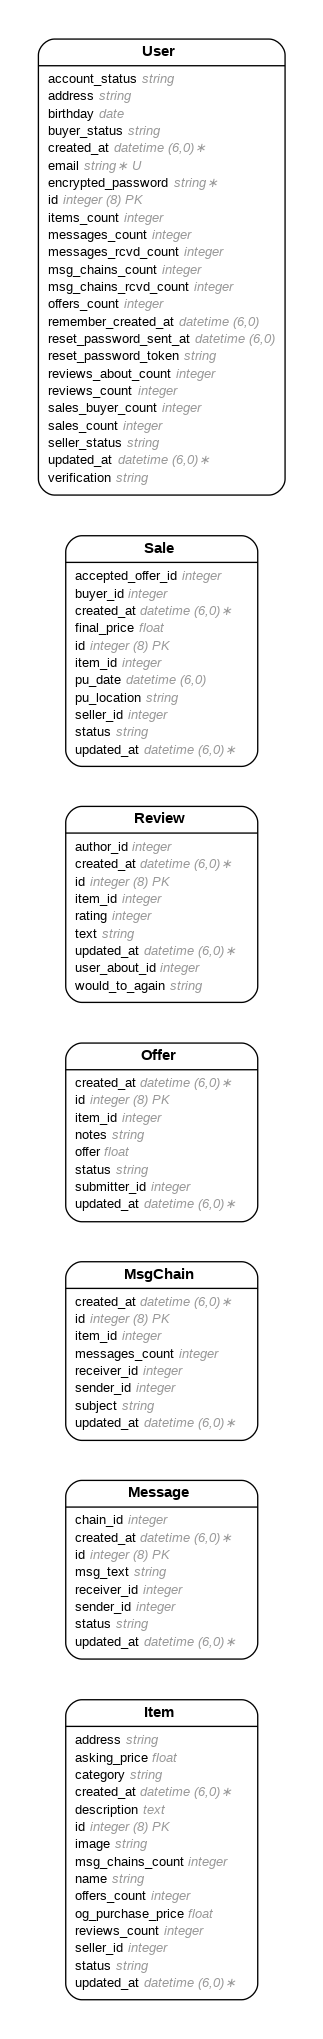
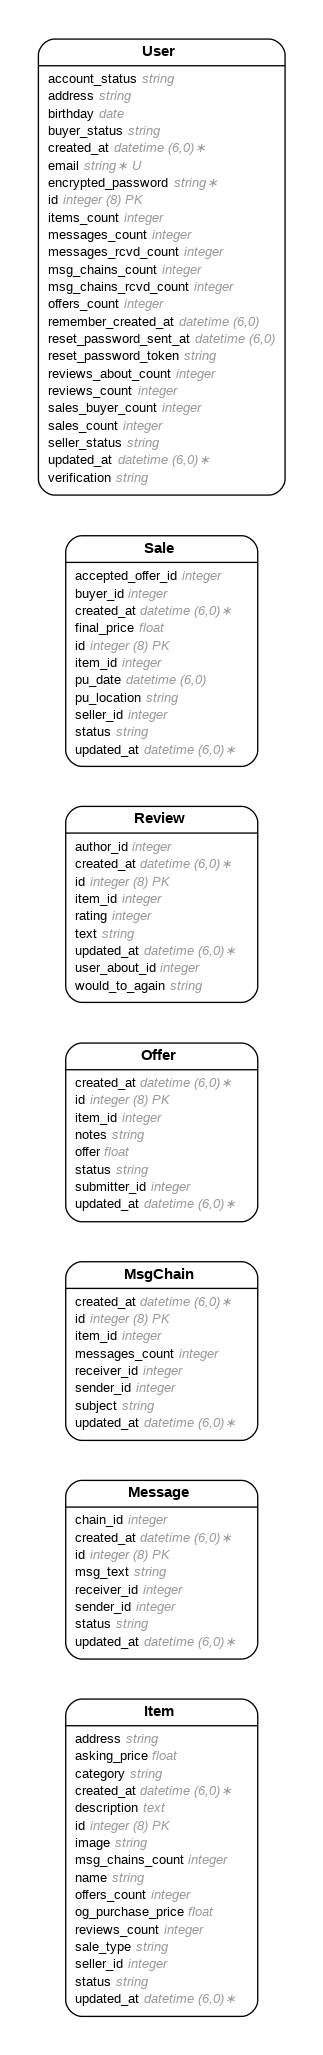
5101213

Changed region(s): [[0.1238, 0.0309, 0.805, 0.9887]]

diff --git a/db/schema.rb b/db/schema.rb
@@ -10,7 +10,7 @@
 #
 # It's strongly recommended that you check this file into your version control system.
 
-ActiveRecord::Schema[7.1].define(version: 2025_05_10_054432) do
+ActiveRecord::Schema[7.1].define(version: 2025_05_10_160906) do
   # These are extensions that must be enabled in order to support this database
   enable_extension "plpgsql"
 
@@ -29,6 +29,7 @@ ActiveRecord::Schema[7.1].define(version: 2025_05_10_054432) do
     t.integer "reviews_count"
     t.datetime "created_at", null: false
     t.datetime "updated_at", null: false
+    t.string "sale_type"
   end
 
   create_table "messages", force: :cascade do |t|

diff --git a/app/models/item.rb b/app/models/item.rb
@@ -13,6 +13,7 @@
 #  offers_count      :integer
 #  og_purchase_price :float
 #  reviews_count     :integer
+#  sale_type         :string
 #  status            :string
 #  created_at        :datetime         not null
 #  updated_at        :datetime         not null

diff --git a/db/migrate/20250510160906_add_sale_type_to_items.rb b/db/migrate/20250510160906_add_sale_type_to_items.rb
@@ -1,0 +1,5 @@
+class AddSaleTypeToItems < ActiveRecord::Migration[7.1]
+  def change
+    add_column :items, :sale_type, :string
+  end
+end
